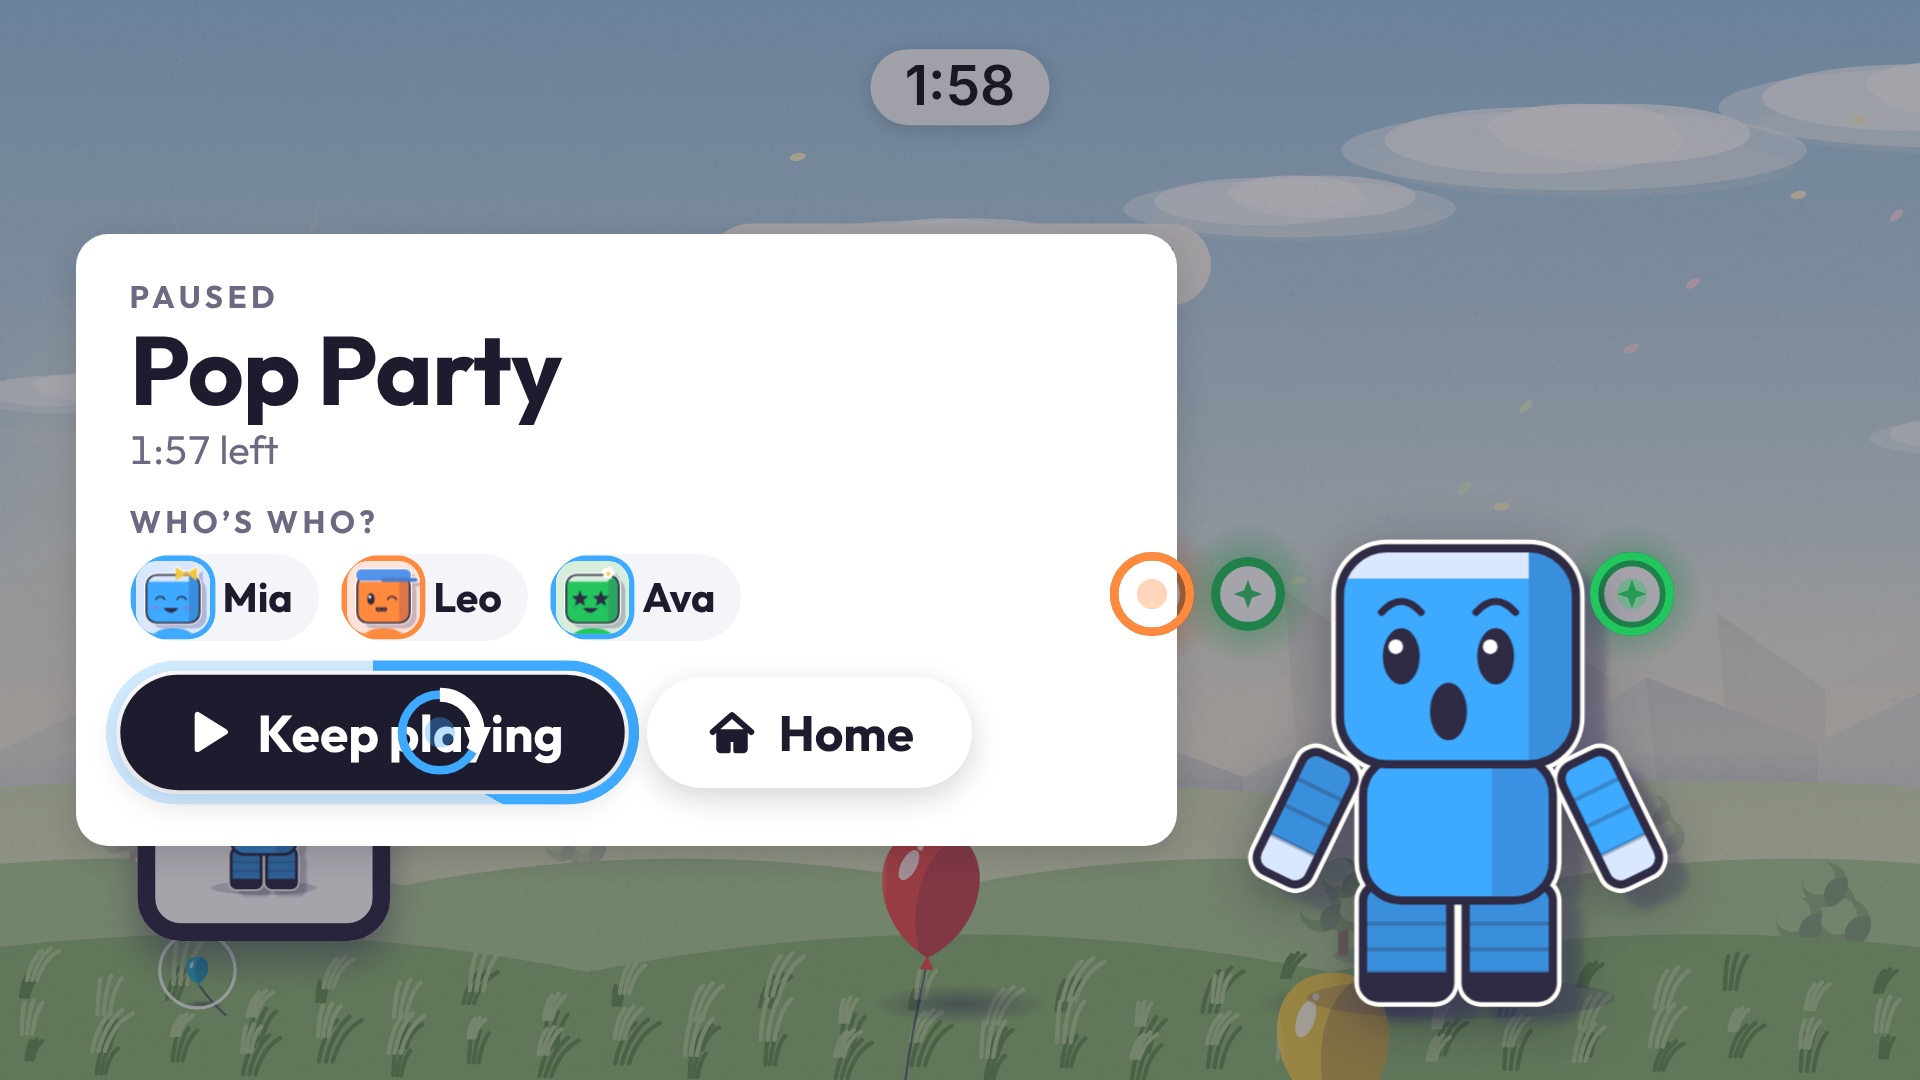
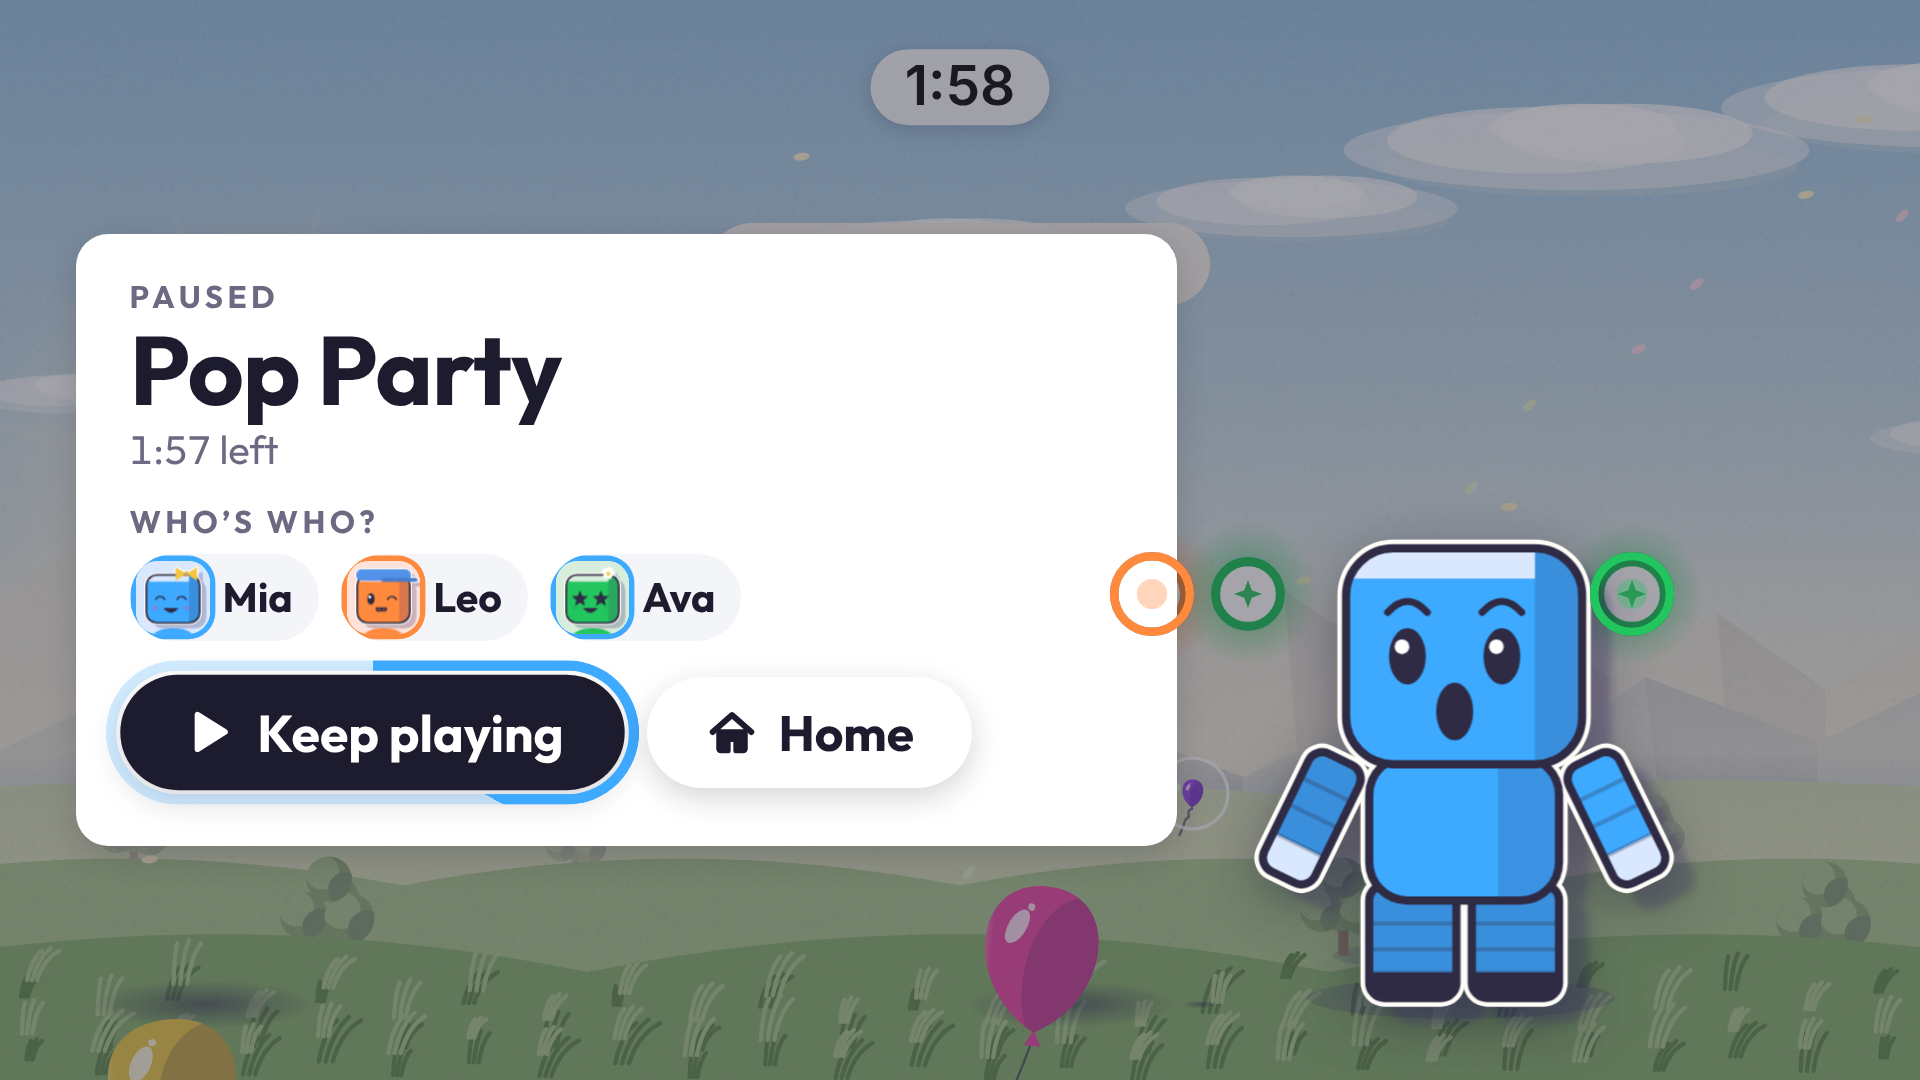
Hand ring runs round the button (no dot over its words); move card hidden under pause; pictures re-taken
Claude-Session: https://claude.ai/code/session_01H7pxTnxTukKeeYRVqvmnkU

diff --git a/app/src/ui/cursor.js b/app/src/ui/cursor.js
@@ -120,7 +120,7 @@ export const cursor = {
         if (f) f.style.transform = `scaleX(${k.toFixed(3)})`;
         el.style.setProperty('--k', `${Math.round(k * 100)}%`);       /* (the clean look's ring around a button fills with the wave) */
         const ring = this.rings[this.rings.length - 1];
-        ring.progress = k; ring.waving = waving ? 1 : 0;
+        ring.progress = k; ring.waving = waving ? 1 : 0; ring.el = el;
         if (s.lit !== el){ s.lit = el; sfx.tick(); }
         if (s.turns >= CLICK_TURNS){
           s.t = 0; s.el = null; s.cool = COOLDOWN; s.turns = 0; s.dir = 0; s.lit = null;
@@ -173,6 +173,8 @@ export const cursor = {
   draw(c, W, H){
     if (this.skin) return;
     for (const r of this.rings){
+      /* over a button with its own ring (the clean look's .ringed), the ring runs round the button: no dot on top of its words */
+      if (r.el && r.el.classList && r.el.classList.contains('ringed')) continue;
       const x = r.x * W, y = r.y * H, rad = Math.max(16, H * 0.035);
       c.save();
       c.lineWidth = Math.max(4, H * 0.008);

diff --git a/app/src/clean-home.css b/app/src/clean-home.css
@@ -106,3 +106,8 @@ body.remote .htile.kfocus{ outline:none; }
 .btn.sheetitem .fill{ background:var(--grad); opacity:.18; }
 .btn.sheetitem:hover,.btn.sheetitem.hot,body.remote .btn.sheetitem.kfocus{ background:#fff; box-shadow:0 0 0 calc(var(--u)*.5) var(--who,var(--blue)); transform:none; }
 .hsfoot{ margin:calc(var(--u)*2) calc(var(--u)*.6) 0; font-size:calc(var(--u)*2.4); color:var(--ink-soft); text-align:left; overflow:hidden; text-overflow:ellipsis; white-space:nowrap; }
+
+/* a tile the hand is waving at: the progress runs round its edge (inside it), so nothing sits on the picture */
+.htile.hot:not(.getting)::after{ content:''; position:absolute; inset:0; border-radius:inherit; border:calc(var(--u)*1.1) solid transparent; pointer-events:none;
+  background:conic-gradient(var(--who,var(--blue)) var(--k,0%), color-mix(in srgb, var(--who,var(--blue)) 24%, transparent) 0) border-box;
+  -webkit-mask:linear-gradient(#000 0 0) padding-box exclude, linear-gradient(#000 0 0); mask:linear-gradient(#000 0 0) padding-box exclude, linear-gradient(#000 0 0); }

diff --git a/app/src/ui/home.js b/app/src/ui/home.js
@@ -328,7 +328,8 @@ export function menu({ onPlay, onRecalibrate, onWho, nav = {}, arrive = false, o
     const ring = cursor.rings.find(r => r.id === driver.who) || null;
     cursor.enabled = !sheet && !going;
     /* the cursor in the driver's colour */
-    if (ring){
+    const overButton = !!document.querySelector('.hot');
+    if (ring && !overButton && !(edgeDown.classList.contains('lit') || edgeUp.classList.contains('lit'))){
       dot.classList.add('show');
       dot.style.left = `${ring.x * 100}%`; dot.style.top = `${ring.y * 100}%`;
       s.style.setProperty('--c', ring.color); dot.style.setProperty('--k', `${Math.round(ring.progress * 100)}%`);

diff --git a/app/src/main.js b/app/src/main.js
@@ -579,7 +579,7 @@ function tick(now){
   }
   if (mode === 'outro' && inst && inst.outro(dt, W, H)) showResults();
   if ((mode === 'play' || mode === 'outro' || mode === 'results') && inst) inst.draw(c, W, H);
-  if (mode === 'play' && inst) drawMoveCard(c, W, H, dt);
+  if (mode === 'play' && inst && !paused) drawMoveCard(c, W, H, dt);      /* (not under the pause card) */
 
   /* A scene can navigate during its own tick - the title's wave ends by
      opening the menu - which leaves `scene` null before the draw. Hold the
